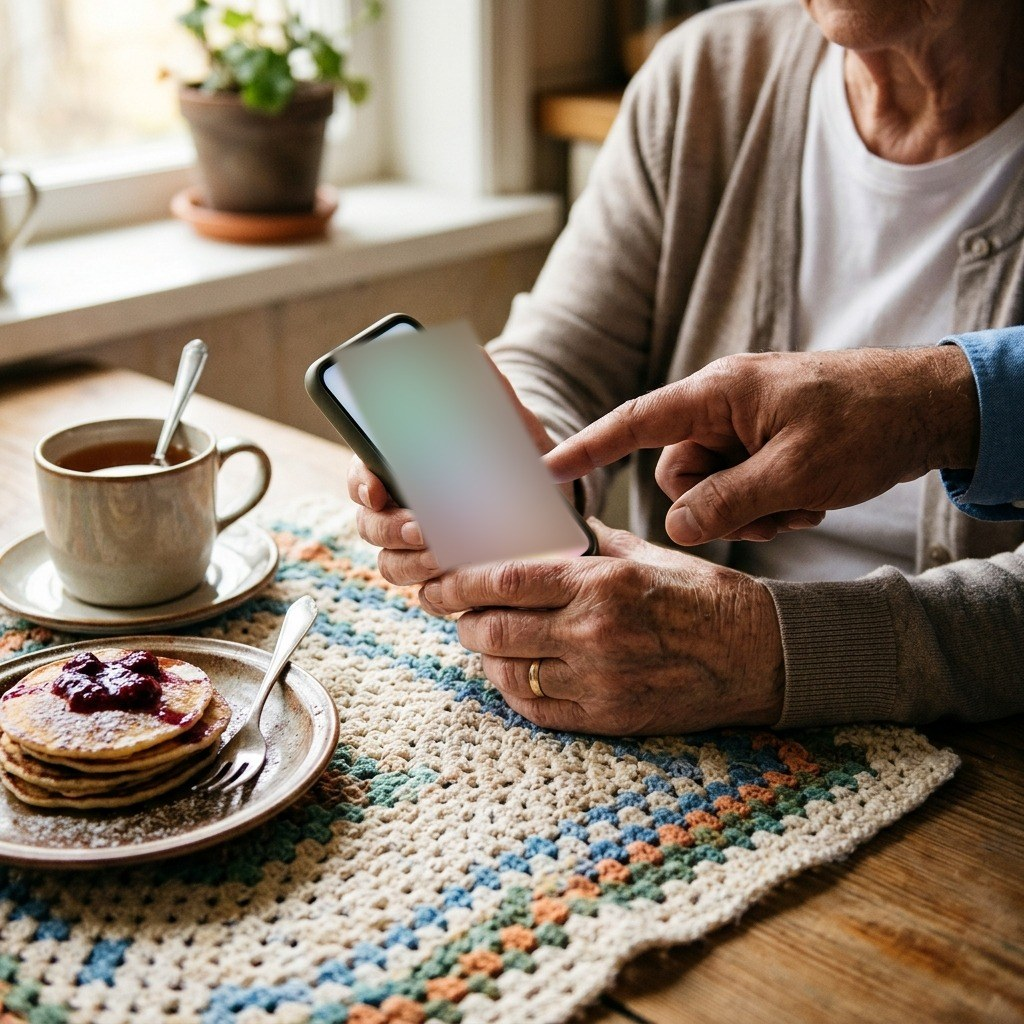
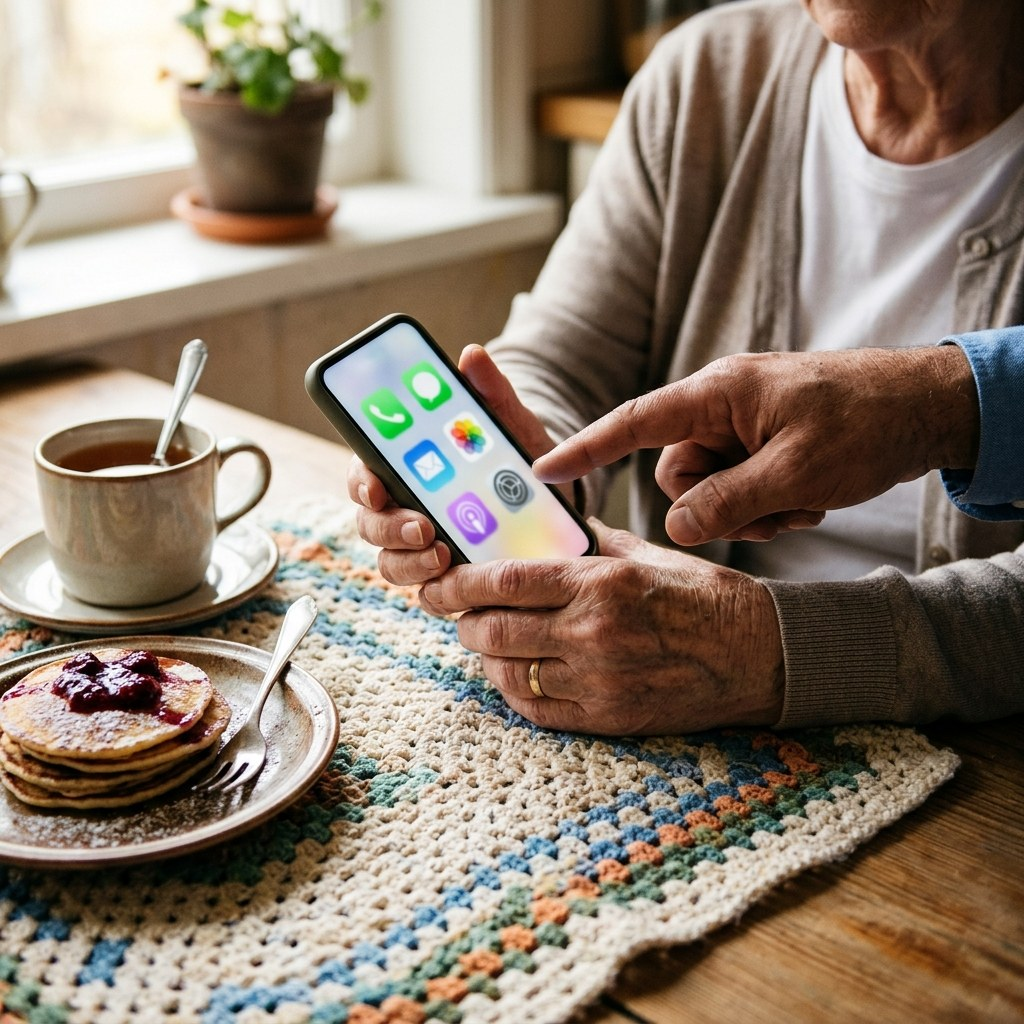
2-06: office photo with readable Anaprilin box and fund binder label (overlay), detail shot; keep real brands in casual photos (author decision)
Claude-Session: https://claude.ai/code/session_014RPwzncWYF5iJr11hn4d7H

Changed region(s): [[0.3125, 0.3125, 0.5938, 0.5625]]

diff --git a/CLAUDE.md b/CLAUDE.md
@@ -24,7 +24,7 @@
 - **Никакого сервера.** Результат сборки — папка статических файлов `dist/`, которую можно положить на любой статический хостинг. Никаких запросов к внешним API во время игры, никаких CDN: шрифты, скрипты и стили лежат в `dist/`.
 - **Ни одного открытого ответа в `dist/`.** Ответы, тексты следующих этапов, результаты экспертиз, развязка и закрытые страницы попадают в `dist/` только зашифрованными (см. `docs/02-architecture.md`). Сборка обязана проверять это сама (leak scan) и падать при утечке.
 - **Нормализация и криптография реализованы дважды** — в Python (сборка) и в JS (браузер) — и обязаны давать побайтно одинаковый результат. Общие тестовые векторы лежат в `tests/vectors/`; любое изменение логики сопровождается обновлением векторов и тестов с обеих сторон.
-- **Только вымышленные бренды.** Никаких логотипов, названий, гербов и узнаваемого фирменного стиля реальных компаний и госорганов (VK, Instagram, Telegram, Яндекс, Госуслуги, СК РФ, МВД и т.п.). Страницы должны выглядеть правдоподобно, но принадлежать вымышленным сервисам из `content/world.yaml`.
+- **Только вымышленные бренды.** Никаких логотипов, названий, гербов и узнаваемого фирменного стиля реальных компаний и госорганов (VK, Instagram, Telegram, Яндекс, Госуслуги, СК РФ, МВД и т.п.). Страницы должны выглядеть правдоподобно, но принадлежать вымышленным сервисам из `content/world.yaml`. Исключение (решение автора 23.10.2026, семейная версия): реальные товары и интерфейсы, случайно попавшие в бытовые фото и видео персонажей (конфеты, телефон, ноутбук), не замазываем. Сами сервисы — соцсети, портал, облако, справочник, лаборатория — остаются вымышленными. При продаже игры такие кадры заменить.
 - **Все параметры — в конфиге.** Баллы, штрафы, число итераций, пороги рангов, тексты — в `content/`. В коде нет «магических» чисел и строк сюжета.
 - **Все тексты интерфейса — на русском.** Идентификаторы в коде — на английском, комментарии можно по-русски.
 - **Репозиторий приватный.** В `content/` лежат ответы. Публикуется только `dist/`.

diff --git a/content/paper/2-06.md b/content/paper/2-06.md
@@ -8,6 +8,7 @@ pages_hint: 2
 media:
   - "paper/2-06-room.jpg"
   - "paper/2-06-office.jpg"
+  - "paper/2-06-office-detail.jpg"
 meta:
   subtitle: "к протоколу осмотра служебных помещений театра от 11.11.2026: кабинет художественного руководителя"
   columns: 1
@@ -15,6 +16,7 @@ meta:
   captions:
     - "Кабинет художественного руководителя театра, общий вид от входной двери."
     - "Рабочий стол, общий вид."
+    - "Рабочий стол, фрагмент: справа от ноутбука."
 signed:
   - { role: "Руководитель следственной группы, майор юстиции", name: "{{ c.belyaev.short() }}" }
 ---
